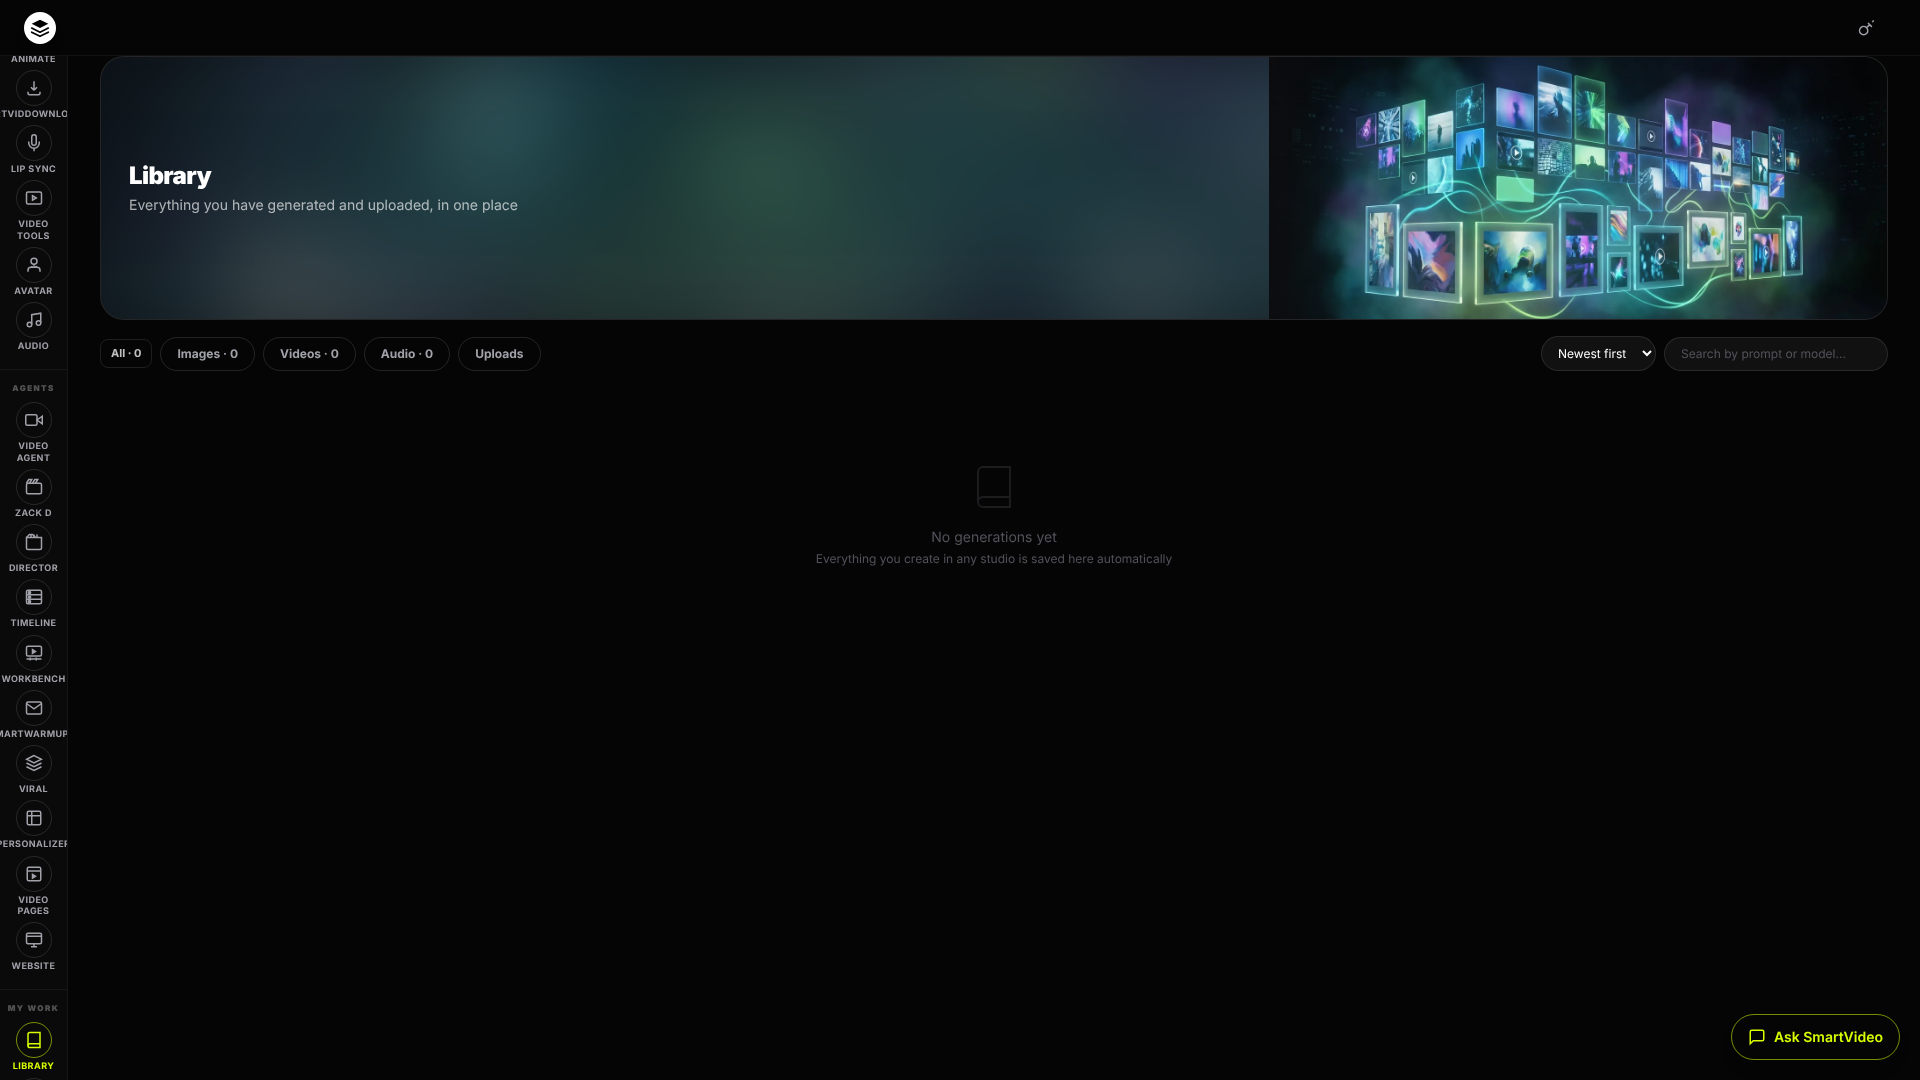
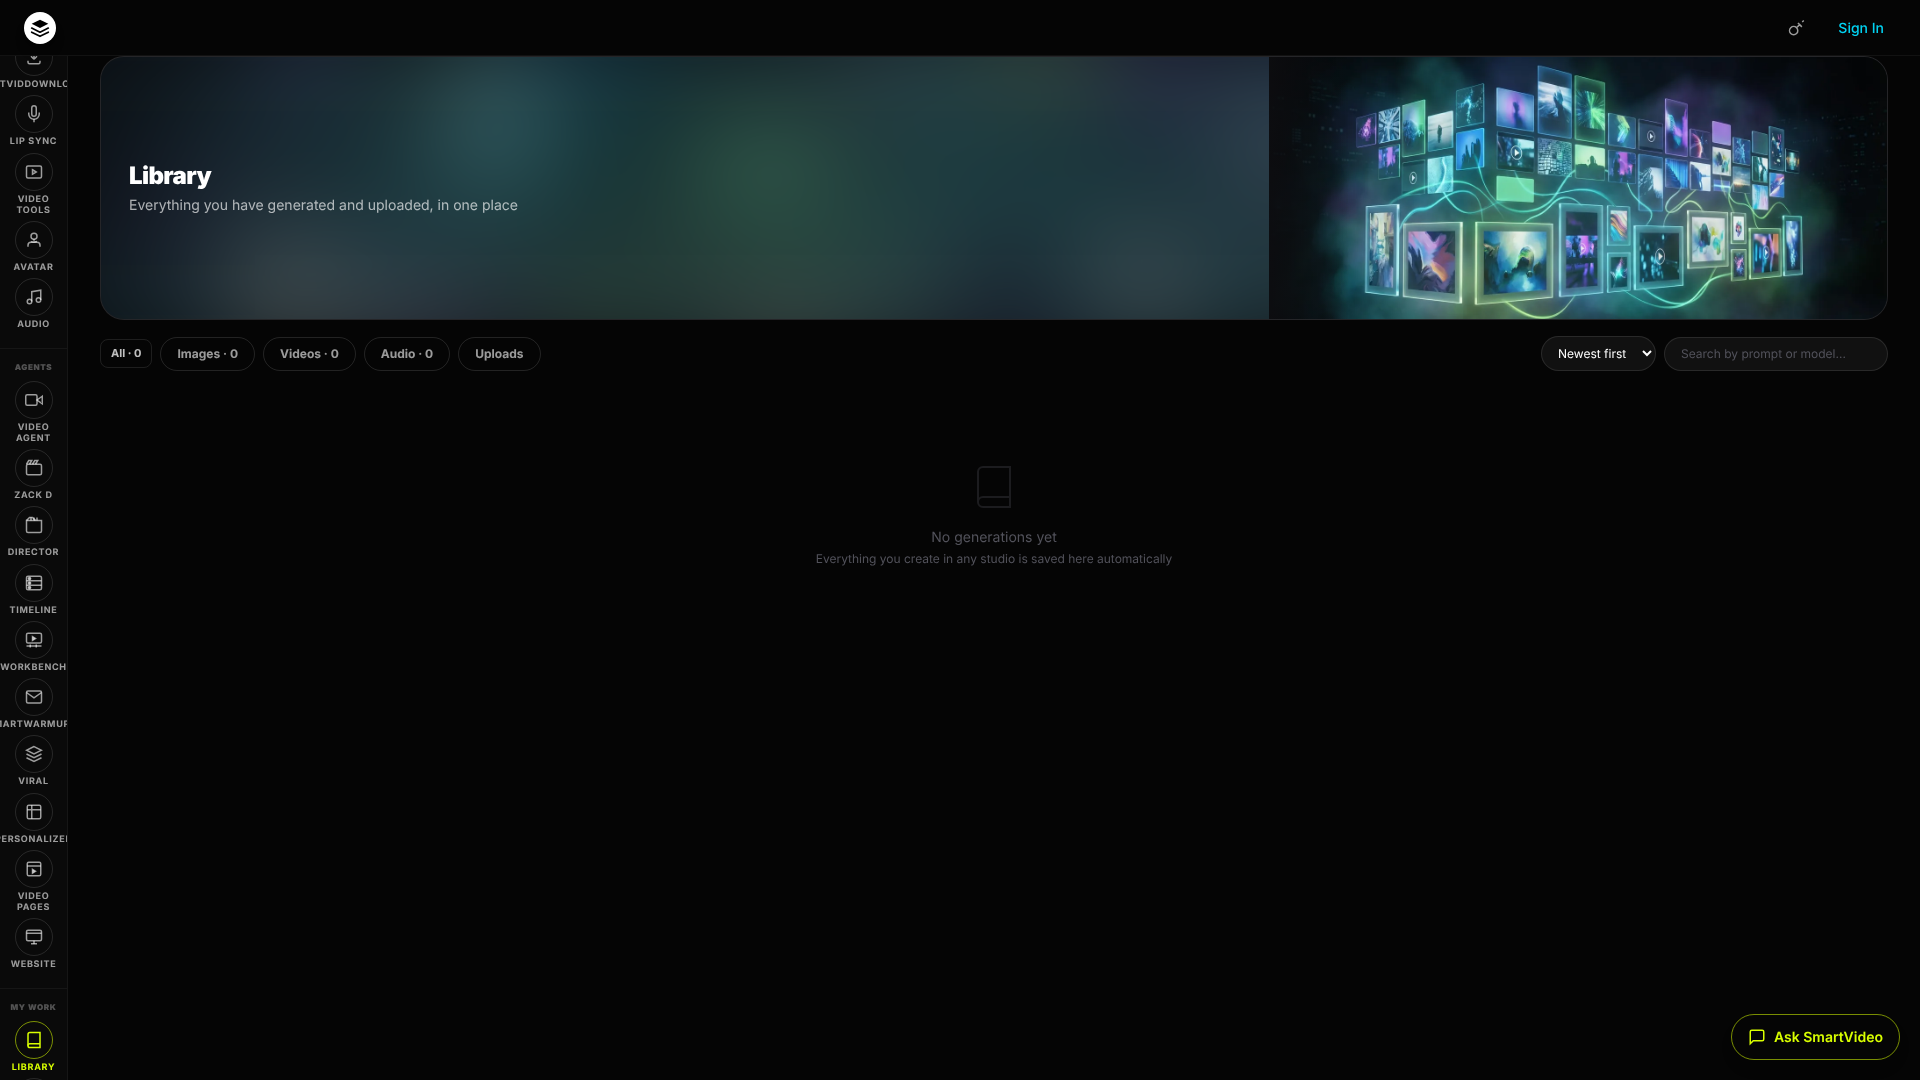
Recapture Phase 1 from live smartvid.app; add Workbench; update report
Claude-Session: https://claude.ai/code/session_01HH9yPe6PVgtTh7KXU5kZBg

Changed region(s): [[0.0, 0.3361, 0.0312, 0.8556], [0.0, 0.0306, 0.0312, 0.3056], [0.0, 0.8861, 0.0312, 1.0]]

diff --git a/video/CAPTURE_REPORT.md b/video/CAPTURE_REPORT.md
@@ -1,30 +1,29 @@
-# Capture report (Phase 1, partial)
+# Capture report (Phase 1, revision 2: live site)
 
-Method: Playwright, 1920x1080, dark colour scheme, unauthenticated, vite dev server on :3100, first-run key modal dismissed ("Skip for now"). Script: scratchpad cap.cjs. Contact sheet: contact-sheet.png.
+Source: https://smartvid.app (production build, signed out), Playwright, 1920x1080, dark scheme, first-run key dialog dismissed. Revision 1 used the local vite dev server, which lacked the built Workbench bundle and had blocked images; it is superseded. Contact sheet: contact-sheet.png (26 captures).
 
-## Blockers affecting every shot
-- No provider keys. The app is BYOK: Muapi, OpenAI and VideoDB keys are entered in the UI. None are available, so no generation ever ran. No prompt-to-result, before/after, model-count scrolling, or end-to-end run can be captured honestly.
-- No Supabase env (VITE_SUPABASE_URL / VITE_SUPABASE_ANON_KEY) and no demo account: not signed in.
-- Sandbox proxy blocks external hosts (ERR_TUNNEL_CONNECTION_FAILED): some remote images/fonts may be missing.
+## Blockers that remain
+- No provider keys (Muapi, OpenAI, VideoDB are BYOK, entered in the UI) and no signed-in account (Clerk connector needs re-auth). No generation can run, so no prompt-to-result, before/after outcome, model-count scroll, 3-language clip or live cost counter has been captured. None are faked.
+- Some third-party images are blocked by the sandbox proxy (ERR_TUNNEL_CONNECTION_FAILED) and a few calls return 401 (signed out).
 
 ## Per-shot status
 | Shot | Capture | Status |
 |---|---|---|
-| 01 Hero (prompt typed + clip) | 01-hero-video-studio | FAILED: page blank (route `#/hero`-less; `#/video` empty body in this run, 0 chars). Clip needs a key anyway |
-| 02 Apps hub | 02-apps-hub | Page only; the "33 apps" count is not verified/visible |
-| 03 Model picker | 03-model-picker | Studio page only; picker not opened, no count |
-| 04 Image Studio | 04-image-studio | Idle UI only; no result, advanced panel not opened |
-| 05 Cinema / Director | 05a, 05b | Idle UI only; Director loads, no escapeHtml error seen |
-| 06 Storyboard / Backlot | 06a | Idle UI only; Backlot is a separate OpenMontage board, not captured; no cost counter |
-| 07 Edit tools | 07a, 07b | Edit gallery has stock before/after tiles (check provenance); upscale idle |
-| 08 Character / Influencer | 08a, 08b | Idle UI only; no 4-6 scene run |
-| 09 Avatar / Lip Sync / Dubbing | 09a, 09b | Idle UI only; no 3-language clip; no dubbing route captured |
-| 10 AI-VFX / Effects | 10a, 10b | Idle UI; template tiles only; nothing applied to a clip |
-| 11 Timeline / Render | 11a, 11b | FAILED: stuck on loading spinner |
-| 12 Templates / Commercial | 12a, 12b | FAILED: blank / spinner. Commercial route resolved to Product Shot page in the sheet |
-| 13 Video Agent | 13 | FAILED: route showed Product Shot Studio, not Video Agent; needs a key anyway |
-| 14 Chat / Assist | 14a, 14b | FAILED: both show the Apps hub, not chat/assist |
-| 15 Library / Community / Stock | 15a, 15b, 15c | Library empty (needs sign-in); Community (Explore) OK; stock-media route shows Library, not Pexels |
-| 16 Agency dashboard | none | FAILED: no route found in router |
+| 01 Hero | 01-hero-video-studio | Idle Video Studio only; no typed prompt or finished clip |
+| 02 Apps hub | 02-apps-hub | Page OK; "33 apps" count not verified on screen |
+| 03 Model picker | 03-model-picker | Studio page only (same as 01); picker not opened, no count |
+| 04 Image Studio | 04-image-studio | Idle only; advanced panel not opened |
+| 05 Cinema / Director | 05a, 05b | Idle only |
+| 06 Storyboard / Backlot | 06a | Idle only; Backlot is an OpenMontage board, not captured; no cost counter |
+| 07 Edit tools | 07a, 07b | Edit gallery shows before/after tiles (provenance unchecked); upscale idle |
+| 08 Character / Influencer | 08a, 08b | Idle only |
+| 09 Avatar / Lip Sync / Dubbing | 09a, 09b | Idle only; no dubbing route captured |
+| 10 AI-VFX / Effects | 10a, 10b | Idle only |
+| 11 Timeline / Render | 11a workbench, 11b timeline, 11c render-legacy | Workbench (replaces Render in nav) loads: empty project with demo timeline. Timeline shows empty project manager. Render is an empty shell (placeholder title "Generated Video Prompt Title"): do not use |
+| 12 Templates / Commercial | 12a, 12b | Templates grid OK. Commercial route shows Product Shot Studio: wrong page |
+| 13 Video Agent | 13 | Idle "What do you want to create?" prompt; no run |
+| 14 Chat / Assist | 14a, 14b | FAILED: both show Apps hub; correct entry point unknown |
+| 15 Library / Community / Stock | 15a, 15b, 15c | Library empty (401, signed out); Community OK; stock route shows Library, not Pexels |
+| 16 Agency dashboard | none | FAILED: no route found |
 
-Usable as-is (idle UI): 02, 03, 04, 05a, 05b, 07a, 08a, 08b, 09a, 09b, 10a, 10b, 15b. None show a result, so none can carry a feature claim.
+Usable now as screen-tour frames: 02, 05b, 07a, 11a, 12a, 13, 15b and the studio idle pages. None shows a generated result.
